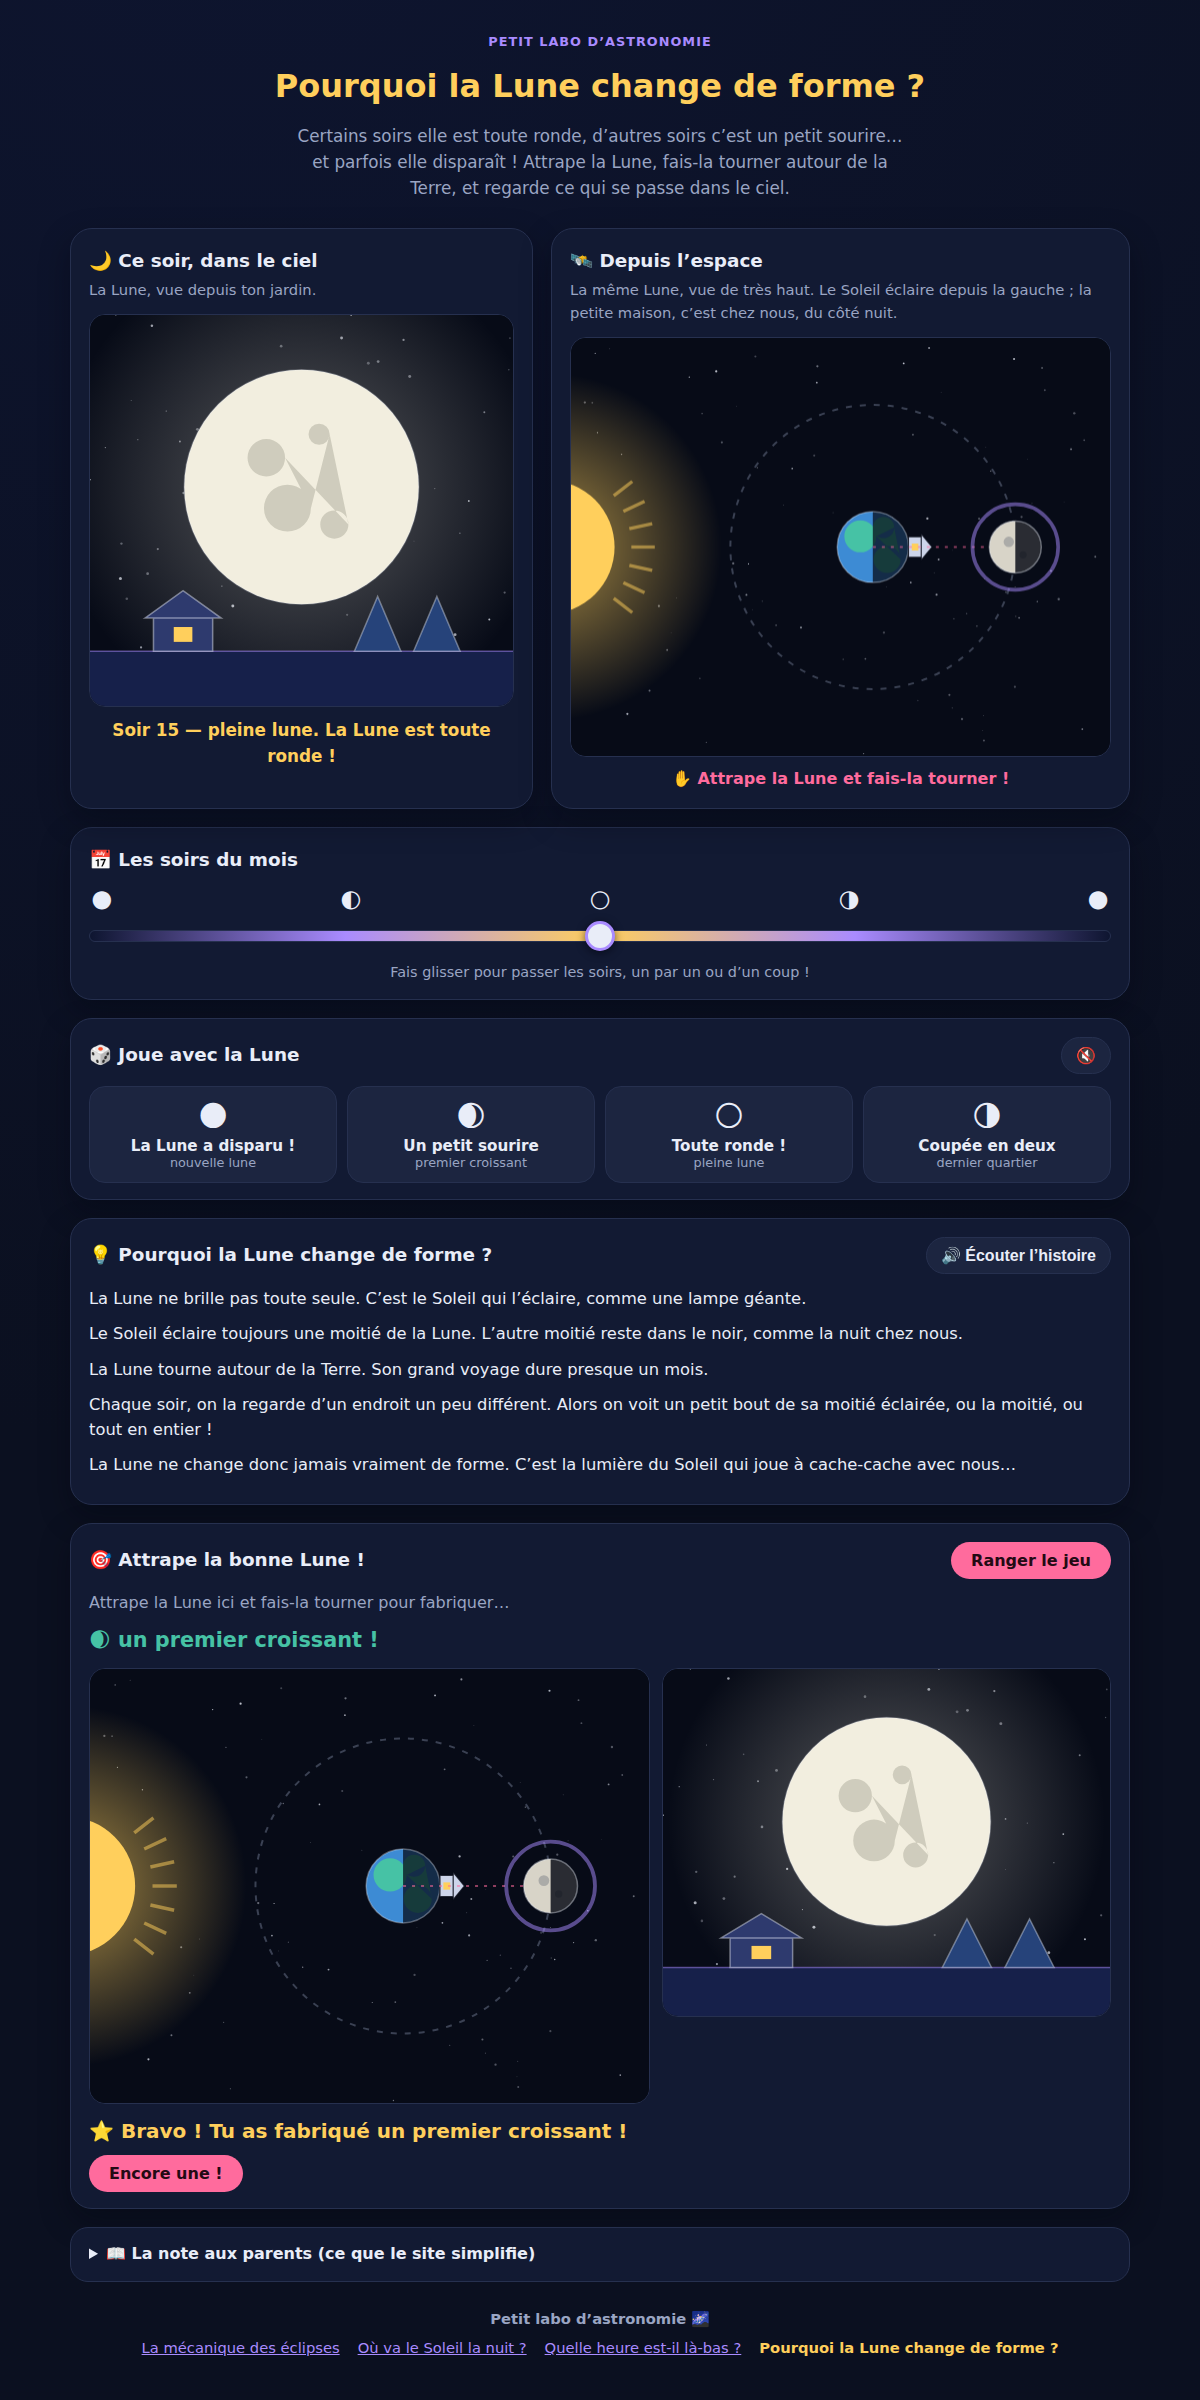
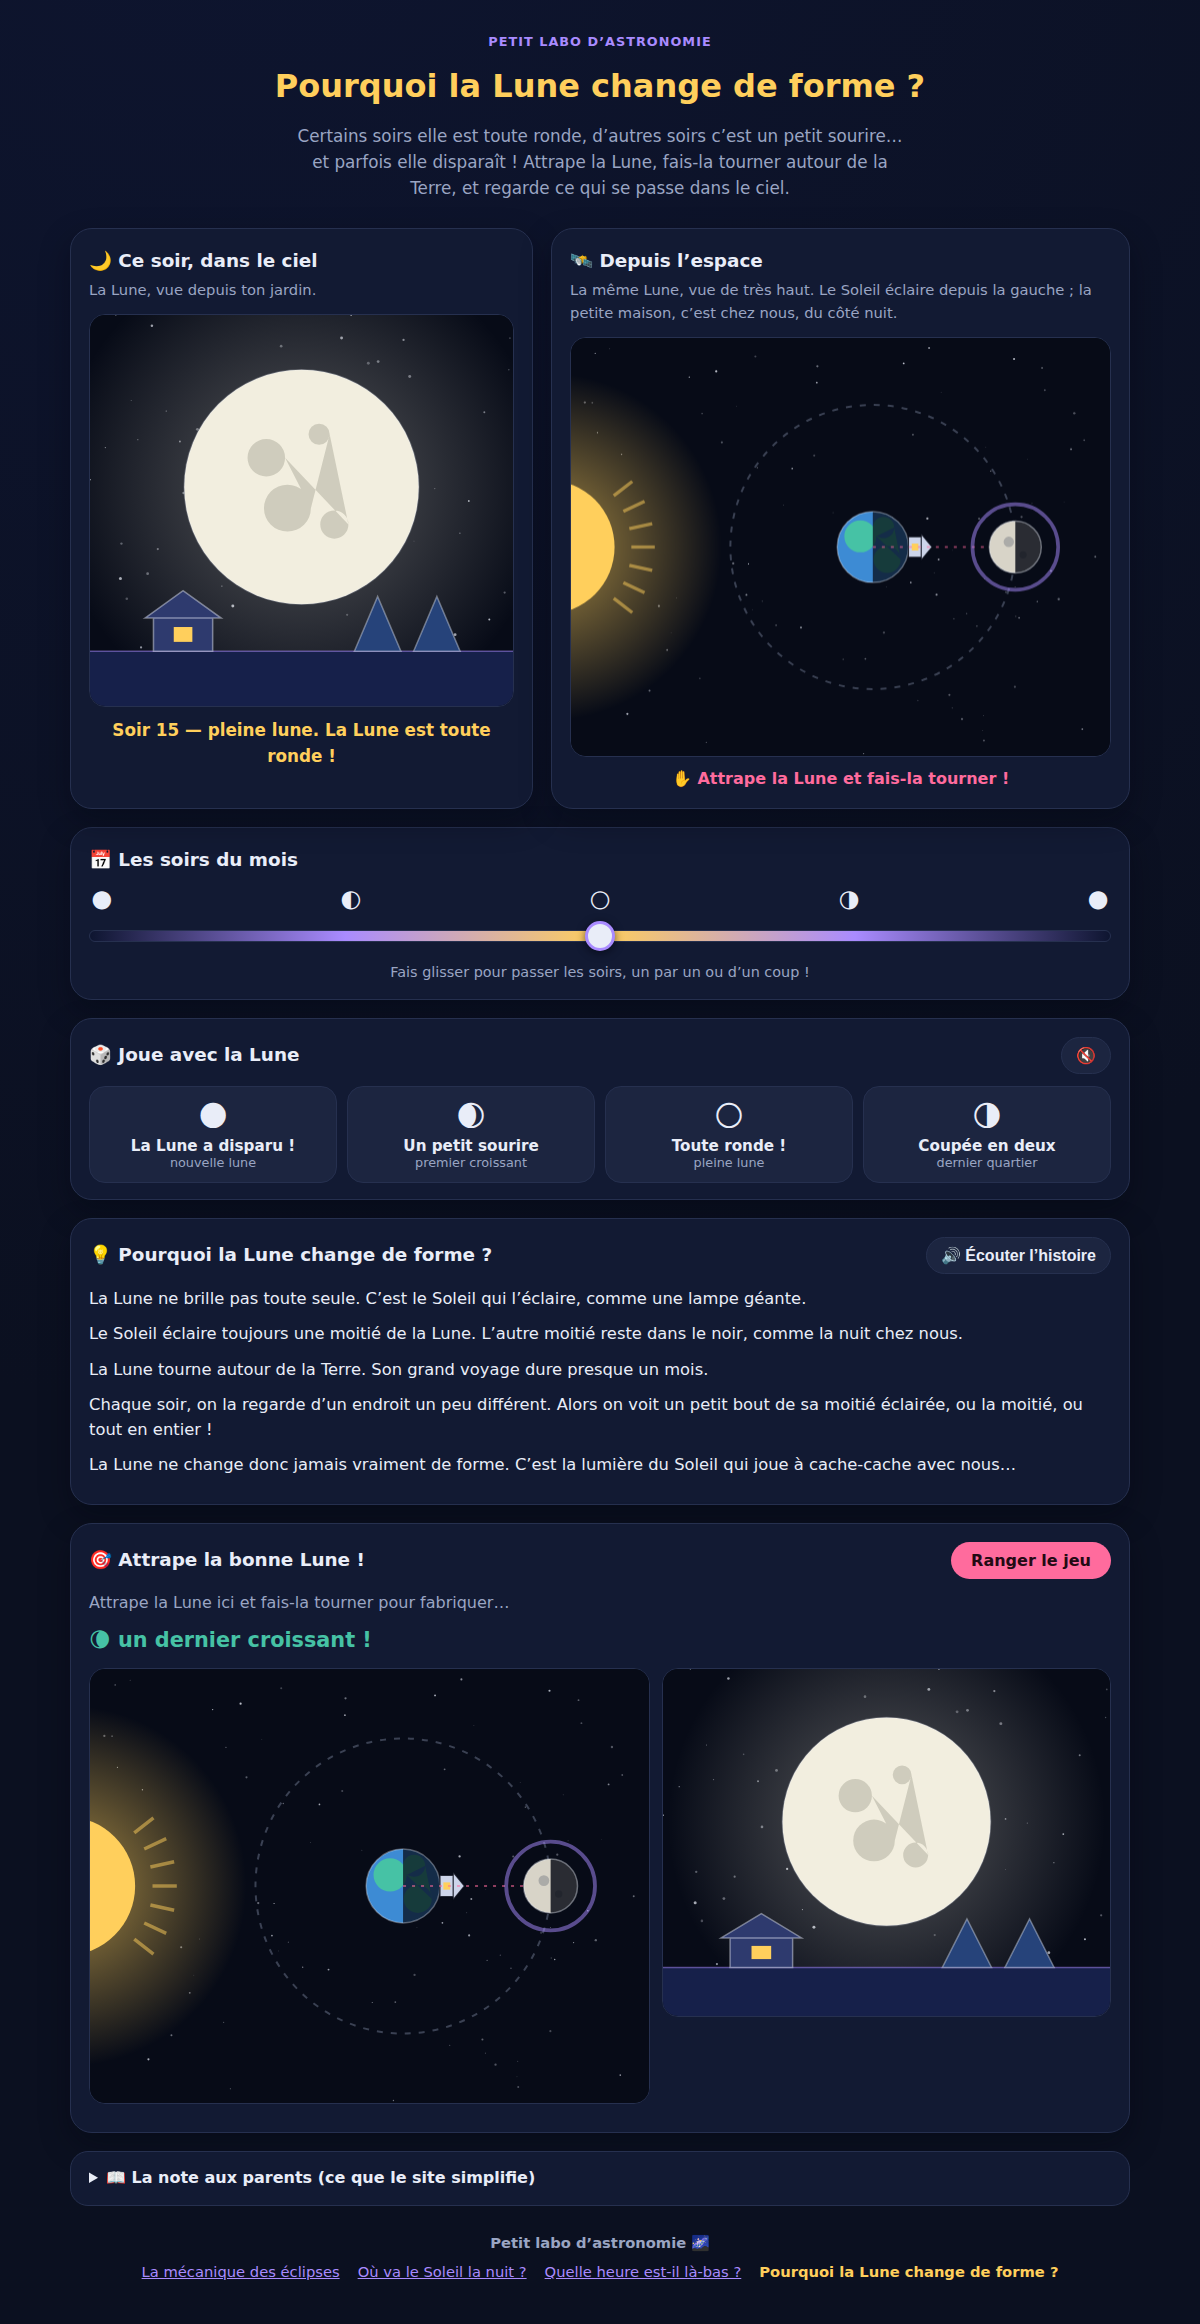
feat: boîte repliable, croissant au départ, jeu honnête et sonore
Trois patrons portés depuis les épisodes voisins :
- comme la-terre-tourne, la boîte « Pourquoi la Lune change de
  forme ? » se replie sur mobile (repliée au chargement, résumé
  cliquable ; toujours ouverte sur ordinateur) — la page raccourcit ;
- la page démarre au premier croissant (JOUR_DEPART = 2,5) : une Lune
  visible d'emblée, le ciel du jour 0 était vide ;
- comme ou-va-le-soleil, le bravo du jeu ne ment jamais (il s'efface
  quand l'enfant repart tourner la Lune, revient si la forme est
  refabriquée, « Encore une ! » reste acquis) et le jeu devient sonore
  via le même bouton 🔇/🔊 que les scénarios (consigneDefi/bravoDefi
  dans le modèle, avec leurs tests).

Claude-Session: https://claude.ai/code/session_01NQbVUC8gY8CoJhDE4di9K5

diff --git a/js/main.js b/js/main.js
@@ -5,8 +5,8 @@
  * que brancher.
  */
 import {
-  CYCLE_JOURS, jourNormalise, phraseDuSoir,
-  SCENARIOS, DEFIS, defiReussi
+  CYCLE_JOURS, JOUR_DEPART, jourNormalise, phraseDuSoir,
+  SCENARIOS, DEFIS, defiReussi, consigneDefi, bravoDefi
 } from './model.js';
 import { creerVueOrbite } from './vue-orbite.js';
 import { creerVueHublot } from './vue-hublot.js';
@@ -21,6 +21,7 @@ var etat = {
   scenarioActif: null,  /* id du scénario affiché, ou null */
   defi: null,           /* le défi du jeu en cours, ou null */
   defiGagne: false,
+  bravoVisible: false,  /* le bravo s'efface quand on repart tourner la Lune */
   glisse: false
 };
 
@@ -538,21 +539,40 @@ function nouveauDefi() {
   }
   etat.defi = candidats[Math.floor(Math.random() * candidats.length)];
   etat.defiGagne = false;
+  etat.bravoVisible = false;
   defiJeu.textContent = etat.defi.emoji + ' ' + etat.defi.nom + ' !';
   defiJeu.hidden = false;
   bravoJeu.hidden = true;
   boutonEncore.hidden = true;
+  /* La version sonore du jeu suit le même bouton 🔇/🔊 que les scénarios. */
+  if (sonScenariosActif) narrateur.raconter(consigneDefi(etat.defi));
 }
 
 function surveillerDefi() {
-  if (!etat.defi || etat.defiGagne) return;
+  if (!etat.defi) return;
+  if (etat.defiGagne) {
+    /* Le bravo ne ment jamais : il s'efface quand l'enfant repart faire
+     * tourner la Lune, et revient si la bonne forme est refabriquée.
+     * « Encore une ! » reste acquis. */
+    var dessus = defiReussi(etat.defi.cible, etat.jour);
+    if (etat.bravoVisible && !dessus) {
+      etat.bravoVisible = false;
+      bravoJeu.hidden = true;
+    } else if (!etat.bravoVisible && dessus && !etat.animation) {
+      etat.bravoVisible = true;
+      bravoJeu.hidden = false;
+    }
+    return;
+  }
   /* On ne gagne qu'en manœuvrant soi-même (pas pendant une animation). */
   if (etat.animation) return;
   if (defiReussi(etat.defi.cible, etat.jour)) {
     etat.defiGagne = true;
-    bravoJeu.textContent = '⭐ Bravo ! Tu as fabriqué ' + etat.defi.nom + ' !';
+    etat.bravoVisible = true;
+    bravoJeu.textContent = '⭐ ' + bravoDefi(etat.defi);
     bravoJeu.hidden = false;
     boutonEncore.hidden = false;
+    if (sonScenariosActif) narrateur.raconter(bravoDefi(etat.defi));
   }
 }
 
@@ -561,6 +581,7 @@ boutonJouer.addEventListener('click', function () {
   if (ouvert) {
     zoneJeu.hidden = true;
     etat.defi = null;
+    etat.bravoVisible = false;
     boutonJouer.textContent = 'Jouer';
     medaillon.setAttribute('aria-label', 'La Lune de ce soir — remonter à la vue du jardin');
   } else {
@@ -574,8 +595,26 @@ boutonJouer.addEventListener('click', function () {
 boutonEncore.addEventListener('click', nouveauDefi);
 
 /* ------------------------------------------------------------------ */
+/* La boîte d'explication se replie sur mobile (raccourcit la page)     */
+/* ------------------------------------------------------------------ */
+
+var pliExplication = document.getElementById('pli-explication');
+
+function synchroniserPliExplication() {
+  if (estMobile) return; /* sur mobile, l'enfant plie et déplie librement */
+  pliExplication.open = true; /* sur ordinateur, toujours ouverte */
+}
+
+if (estMobile) pliExplication.open = false; /* au chargement : repliée */
+pliExplication.addEventListener('toggle', synchroniserPliExplication);
+if (typeof mqMobile !== 'undefined' && mqMobile) {
+  if (mqMobile.addEventListener) mqMobile.addEventListener('change', synchroniserPliExplication);
+  else if (mqMobile.addListener) mqMobile.addListener(synchroniserPliExplication); /* vieux Safari */
+}
+
+/* ------------------------------------------------------------------ */
 /* Démarrage                                                            */
 /* ------------------------------------------------------------------ */
 
-fixerJour(0);
+fixerJour(JOUR_DEPART); /* un premier croissant : une Lune visible d'emblée */
 window.requestAnimationFrame(boucle);

diff --git a/index.html b/index.html
@@ -52,7 +52,7 @@
       <div class="piste-emojis" aria-hidden="true">
         <span>🌑</span><span>🌓</span><span>🌕</span><span>🌗</span><span>🌑</span>
       </div>
-      <input type="range" id="curseur-jours" min="0" max="29.5" step="0.05" value="0"
+      <input type="range" id="curseur-jours" min="0" max="29.5" step="0.05" value="2.5"
         aria-label="Choisis le soir du mois, de 0 à 29 : la Lune avance sur son orbite et change de forme.">
       <p class="legende-curseur">Fais glisser pour passer les soirs, un par un ou d’un coup !</p>
     </section>
@@ -68,8 +68,14 @@
       <div class="histoire" id="histoire-scenario" aria-live="polite" hidden></div>
     </section>
 
-    <!-- La boîte d’explication. -->
-    <section class="carte carte-explication">
+    <!-- La boîte d’explication. Sur mobile, elle se replie comme la note aux
+         parents (le résumé ne s’affiche qu’en < 880 px ; sur ordinateur,
+         main.js la garde ouverte). -->
+    <details class="carte carte-explication" id="pli-explication" open>
+      <summary class="resume-explication">
+        <h2>💡 Pourquoi la Lune change de forme ?</h2>
+        <span class="indice-pli">appuie ici pour lire ou écouter l’histoire</span>
+      </summary>
       <div class="titre-avec-bouton">
         <h2>💡 Pourquoi la Lune change de forme ?</h2>
         <div class="boutons-voix">
@@ -88,7 +94,7 @@
         🗣 Pour une plus jolie voix, ouvre cette page dans Chrome ou Edge, ou installe une voix
         française « améliorée » dans les réglages de l’appareil.
       </p>
-    </section>
+    </details>
 
     <!-- Le jeu d’exploration libre. -->
     <section class="carte carte-jeu">

diff --git a/css/style.css b/css/style.css
@@ -285,6 +285,36 @@ input[type="range"]:focus-visible { outline: 3px solid var(--rose); outline-offs
 
 .conseil-voix { color: var(--muted); font-size: 0.88rem; }
 
+/* Le résumé repliable ne sert que sur mobile : sur ordinateur il est masqué
+ * et main.js garde la boîte ouverte (le titre reste celui de la rangée). */
+.resume-explication { display: none; }
+
+@media (max-width: 879px) {
+  .carte-explication { padding: 6px 18px 8px; }
+  .carte-explication[open] { padding-bottom: 16px; }
+
+  .resume-explication {
+    display: block;
+    cursor: pointer;
+    padding: 12px 0;
+    list-style: none;
+  }
+  .resume-explication::-webkit-details-marker { display: none; }
+  .resume-explication::before { content: '▸ '; color: var(--sun); font-weight: 700; }
+  .carte-explication[open] .resume-explication::before { content: '▾ '; }
+  .resume-explication h2 { display: inline; font-size: 1.1rem; }
+
+  .indice-pli {
+    display: block;
+    margin: 3px 0 0 1.4em;
+    font-size: 0.8rem;
+    color: var(--muted);
+  }
+
+  /* Sur mobile, le titre vit dans le résumé : celui de la rangée disparaît. */
+  .carte-explication .titre-avec-bouton h2 { display: none; }
+}
+
 /* ---------- Jeu ---------- */
 
 .bouton-jeu {

diff --git a/js/model.js b/js/model.js
@@ -20,6 +20,10 @@ export var CYCLE_JOURS = 29.5;
 /* Jour de la pleine lune : à mi-chemin du cycle. */
 export var JOUR_PLEINE = CYCLE_JOURS / 2;
 
+/* Soir affiché à l'arrivée sur la page : un premier croissant — on voit une
+ * Lune dès le début (au jour 0, nouvelle lune, le ciel serait vide). */
+export var JOUR_DEPART = 2.5;
+
 /* Direction du Soleil (unitaire, constante) : l'objet-repère fixe. */
 export var SOLEIL_DIR = { x: -1, y: 0 };
 
@@ -203,4 +207,13 @@ export var DEFIS = [
 
 export function defiReussi(cible, jour) {
   return phaseInfo(jour).cle === cible;
+}
+
+/* La consigne et le bravo d'un défi — pour l'écran et pour le conteur. */
+export function consigneDefi(defi) {
+  return 'Fabrique ' + defi.nom + ' !';
+}
+
+export function bravoDefi(defi) {
+  return 'Bravo ! Tu as fabriqué ' + defi.nom + ' !';
 }

diff --git a/CLAUDE.md b/CLAUDE.md
@@ -48,7 +48,9 @@ Vérités verrouillées par `test/model.test.mjs` (à compléter, jamais supprim
 - Coordonnées **mathématiques** (y vers le haut) dans le modèle ; les vues font
   la bascule canvas (y vers le bas).
 - Le Soleil est **fixe**, très loin, direction `SOLEIL_DIR = (−1, 0)` (à gauche).
-- Jour 0 = nouvelle lune. `positionLune(jour) = (−cos θ, −sin θ)` avec
+- Jour 0 = nouvelle lune. La page démarre au soir `JOUR_DEPART` (2,5 —
+  premier croissant) : une Lune visible d'emblée, le ciel du jour 0 serait
+  vide. `positionLune(jour) = (−cos θ, −sin θ)` avec
   `θ = jour / 29,5 · τ` (sens trigonométrique, le vrai sens vu du pôle Nord).
 - Fraction éclairée vue de la Terre : `(1 − cos θ) / 2`.
 - Forme du disque (hublot) : `formeLune(jour)` → `{ fraction, cote, k }` avec
@@ -70,7 +72,11 @@ Vérités verrouillées par `test/model.test.mjs` (à compléter, jamais supprim
 - **Reprendre la main efface l'histoire** : bouger le curseur ou la Lune ferme
   la micro-histoire du scénario et désarme son `aria-pressed`.
 - **Le jeu ne se gagne qu'en manœuvrant soi-même** (pas pendant une animation
-  de scénario).
+  de scénario). Le bravo **ne ment jamais** : il s'efface quand l'enfant
+  repart faire tourner la Lune, revient si la bonne forme est refabriquée ;
+  « Encore une ! » reste acquis. Le jeu est **sonore** via le même bouton
+  🔇/🔊 que les scénarios (consigne au nouveau défi, bravo à la victoire —
+  `consigneDefi`/`bravoDefi` du modèle).
 - **Sur mobile (< 880 px) seulement** : le hublot se compacte en bandeau
   paysage (13/6, la Lune au-dessus du jardin) — jamais collant : épinglé en
   haut, il cacherait la vue de l'espace au niveau des boutons-scénarios. La
@@ -83,8 +89,10 @@ Vérités verrouillées par `test/model.test.mjs` (à compléter, jamais supprim
   ramène au jardin, sauf pendant le jeu où il n'est qu'un afficheur (remonter
   sortirait l'enfant du jeu). Le jeu n'affiche qu'une seule vue (l'espace),
   sans rien d'incrusté dans le canvas : c'est le médaillon qui montre le
-  résultat, il reste donc visible pendant le jeu. Rien de tout cela n'existe
-  sur grand écran.
+  résultat, il reste donc visible pendant le jeu. La boîte « Pourquoi la Lune
+  change de forme ? » se **replie** sur mobile (repliée au chargement, comme
+  la note aux parents ; toujours ouverte sur ordinateur, `main.js` y veille).
+  Rien de tout cela n'existe sur grand écran.
 
 ## Le conteur (synthèse vocale)
 
